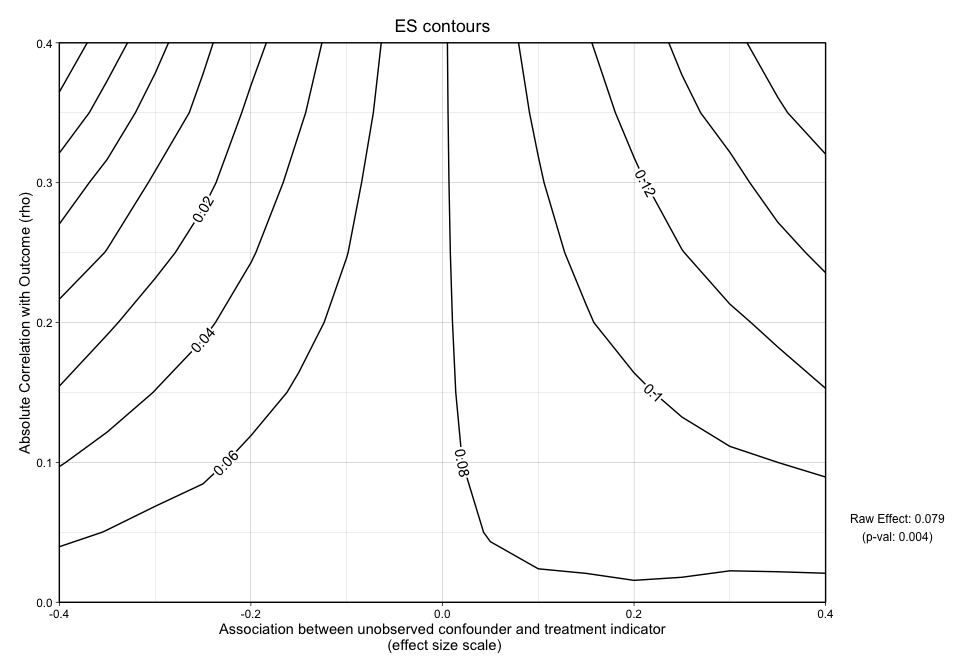
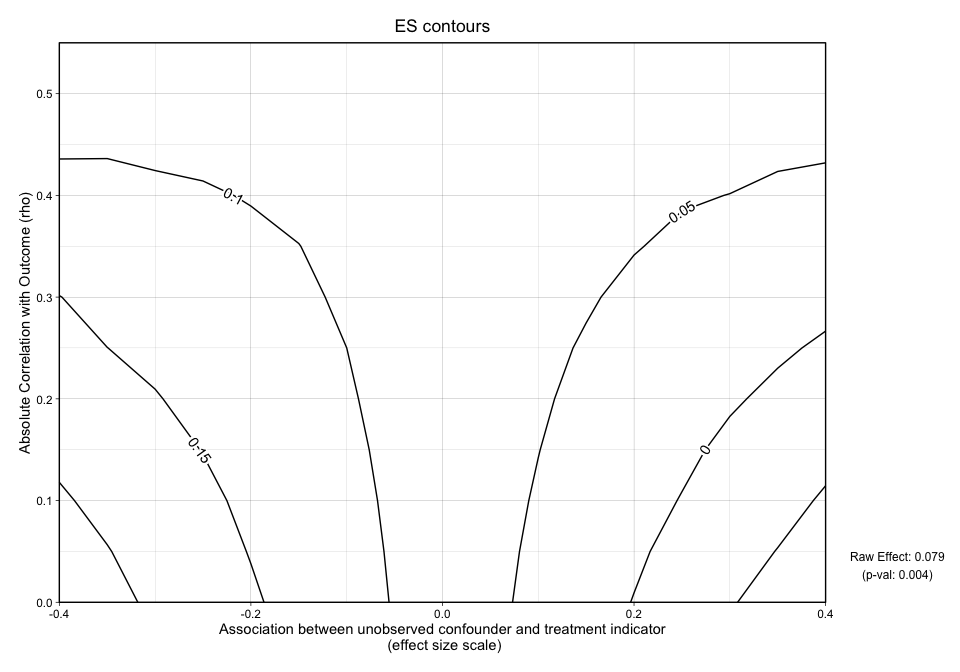
updating readme; still need to adjust text with updates

diff --git a/README.html b/README.html
@@ -381,43 +381,8 @@ summary {
 <p>Past research has indicated there are many influential confounders when analyzing adolescents’ emotional problems, some included in this synthetic dataset (Diamond et al.). These variables were measured at baseline: emotional problem scale (<code>eps7p_0</code>), adjusted days abstinent (any in past 90) (<code>ada_0</code>), substance frequency scale (<code>sfs8p_0</code>), substance abuse treatment index (<code>sati_0</code>), in recovery (<code>recov_0</code>), traumatic stress scale (<code>tss_0</code>), mental health treatment in the past 90 days (<code>mhtrt_0</code>), and the depressive symptom scale (<code>dss9_0</code>). </p>
 <p>We begin by loading the development version of the package from <a href="https://github.com/">GitHub</a>. If you haven’t installed the devtools package, make sure you uncomment and run the first line of the following code snippet prior to running the second line:</p>
 <pre class="r"><code># install.packages(&quot;devtools&quot;)
-devtools::install_github(&quot;jpane24/OVtool&quot;)</code></pre>
-<pre><code>## 
-##   
-   checking for file ‘/private/var/folders/ks/ll8v5y8x6rz_cgvtgk6zln90b6fd3c/T/Rtmp5H69kb/remotes1545d23616bca/jpane24-OVtool-90560b9/DESCRIPTION’ ...
-  
-✓  checking for file ‘/private/var/folders/ks/ll8v5y8x6rz_cgvtgk6zln90b6fd3c/T/Rtmp5H69kb/remotes1545d23616bca/jpane24-OVtool-90560b9/DESCRIPTION’
-## 
-  
-─  preparing ‘OVtool’:
-## 
-  
-   checking DESCRIPTION meta-information ...
-  
-✓  checking DESCRIPTION meta-information
-## 
-  
-   Warning: /private/var/folders/ks/ll8v5y8x6rz_cgvtgk6zln90b6fd3c/T/Rtmp0pYaAh/Rbuild1547113f3c22c/OVtool/man/gen_a_start.Rd:30: unexpected UNKNOWN '\item'
-## 
-  
-─  checking for LF line-endings in source and make files and shell scripts
-## 
-  
-─  checking for empty or unneeded directories
-## 
-  
-─  building ‘OVtool_1.0.0.tar.gz’
-## 
-  
-   Warning: invalid uid value replaced by that for user 'nobody'
-## 
-  
-   Warning: invalid gid value replaced by that for user 'nobody'
-## 
-  
-   
-## </code></pre>
-<pre class="r"><code>library(OVtool)</code></pre>
+devtools::install_github(&quot;jpane24/OVtool&quot;)
+library(OVtool)</code></pre>
 <p>We can load the synthetic dataset and make our treatment variable a binary indicator of 0’s and 1’s:</p>
 <pre class="r"><code>data(sud) 
 sud$treat = ifelse(sud$treat == &quot;A&quot;, 1, 0)</code></pre>

diff --git a/README.md b/README.md
@@ -2,7 +2,8 @@
 
 
 
-*Note: This is a work in progress – last updated 05-15-2020*
+*Note: This is a work in progress – last updated 05-16-2020 – text needs
+updated*
 
 Introduction
 ============
@@ -71,6 +72,19 @@ code snippet prior to running the second line:
 
     # install.packages("devtools")
     devtools::install_github("jpane24/OVtool")
+
+    ## 
+    ##      checking for file ‘/private/var/folders/ks/ll8v5y8x6rz_cgvtgk6zln90b6fd3c/T/RtmpqVSIwp/remotes156ed724f4852/jpane24-OVtool-ddd656e/DESCRIPTION’ ...  ✓  checking for file ‘/private/var/folders/ks/ll8v5y8x6rz_cgvtgk6zln90b6fd3c/T/RtmpqVSIwp/remotes156ed724f4852/jpane24-OVtool-ddd656e/DESCRIPTION’ (334ms)
+    ##   ─  preparing ‘OVtool’:
+    ##      checking DESCRIPTION meta-information ...  ✓  checking DESCRIPTION meta-information
+    ##   ─  checking for LF line-endings in source and make files and shell scripts
+    ##   ─  checking for empty or unneeded directories
+    ##   ─  building ‘OVtool_1.0.0.tar.gz’
+    ##      Warning: invalid uid value replaced by that for user 'nobody'
+    ##    Warning: invalid gid value replaced by that for user 'nobody'
+    ##      
+    ## 
+
     library(OVtool)
 
 We can load the synthetic dataset and make our treatment variable a
@@ -397,14 +411,12 @@ interpret this graphic by running the summary command on the ov object:
     ## [1] "Recommendation for reporting the sensitivity analyses"
     ## [1] "The sign of the estimated effect is expected to be robust to unobserved confounders that
     have the same strength of association with the treatment indicator and outcome that are seen in the
-    observed confounders. In the most extreme observed case, the estimated effect size is reduced by 75
+    observed confounders. In the most extreme observed case, the estimated effect size is reduced by 4
     percent."
     ## [1] "Statistical significance at the 0.05 level is expected to be robust to unobserved
     confounders with strengths of associations with the treatment indicator and outcome that are seen
-    in 5 of the 8 observed confounders. In the most extreme observed case, the p-value would be
-    expected to increase from 0.004 to 0.496. Significance at the 0.05 level would not be expected to
-    be preserved for unobserved confounders that have the same strength of association with the
-    treatment indicator and outcome as eps7p_0, sati_0, tss_0."
+    in the observed confounders. In the most extreme observed case, the p-value would be expected to
+    increase from 0.004 to 0.006."
 
 The `OVtool` gives a recommendation on how to report findings regarding
 the direction of the treatment effect and statistical significance. An
